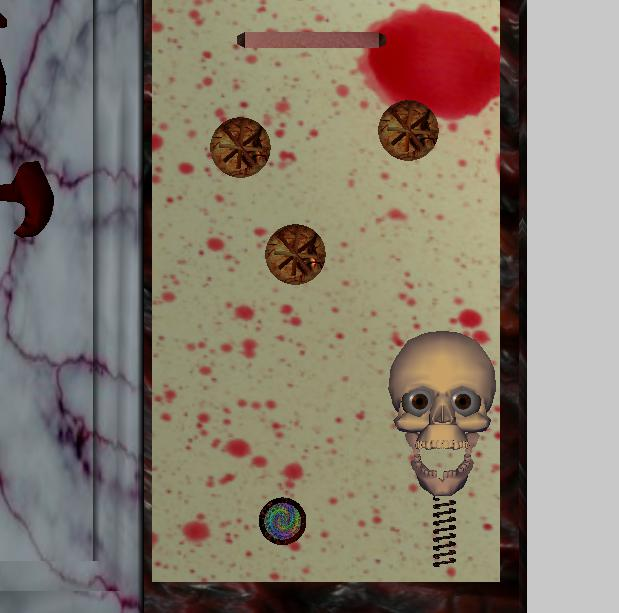
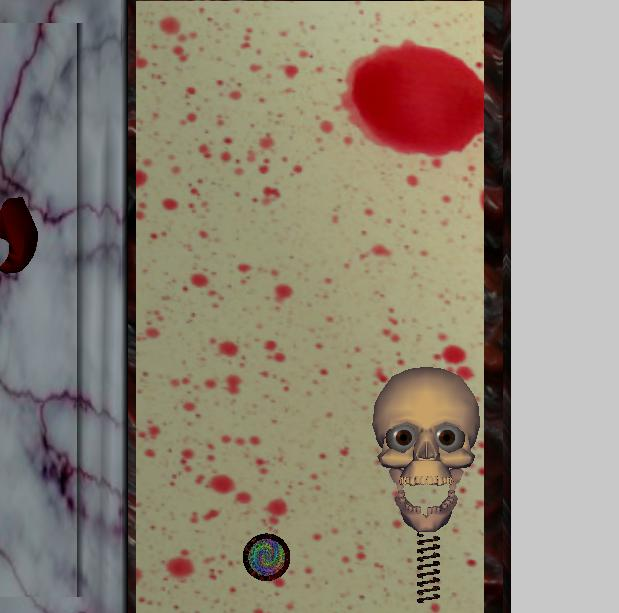
Ajouts graphiques dans le UI de Campagne.

diff --git a/Sources/InterfaceGraphique/Campagne.Designer.cs b/Sources/InterfaceGraphique/Campagne.Designer.cs
@@ -50,12 +50,12 @@
             // 
             // listBox
             // 
-            this.listBox.Font = new System.Drawing.Font("Old English Text MT", 15.75F, System.Drawing.FontStyle.Bold, System.Drawing.GraphicsUnit.Point, ((byte)(0)));
+            this.listBox.Font = new System.Drawing.Font("Microsoft Sans Serif", 11.25F, System.Drawing.FontStyle.Regular, System.Drawing.GraphicsUnit.Point, ((byte)(0)));
             this.listBox.FormattingEnabled = true;
-            this.listBox.ItemHeight = 26;
+            this.listBox.ItemHeight = 18;
             this.listBox.Location = new System.Drawing.Point(44, 150);
             this.listBox.Name = "listBox";
-            this.listBox.Size = new System.Drawing.Size(163, 264);
+            this.listBox.Size = new System.Drawing.Size(163, 274);
             this.listBox.TabIndex = 0;
             this.listBox.SelectedValueChanged += new System.EventHandler(this.listBox_SelectedValueChanged);
             // 
@@ -66,7 +66,7 @@
             this.colonneDiff});
             this.ZonesChoisis.Location = new System.Drawing.Point(445, 150);
             this.ZonesChoisis.Name = "ZonesChoisis";
-            this.ZonesChoisis.Size = new System.Drawing.Size(183, 264);
+            this.ZonesChoisis.Size = new System.Drawing.Size(183, 274);
             this.ZonesChoisis.TabIndex = 1;
             this.ZonesChoisis.UseCompatibleStateImageBehavior = false;
             this.ZonesChoisis.View = System.Windows.Forms.View.Details;
@@ -150,9 +150,11 @@
             // 
             // bouton_ADD
             // 
-            this.bouton_ADD.Location = new System.Drawing.Point(44, 428);
+            this.bouton_ADD.BackgroundImageLayout = System.Windows.Forms.ImageLayout.None;
+            this.bouton_ADD.ImageAlign = System.Drawing.ContentAlignment.MiddleLeft;
+            this.bouton_ADD.Location = new System.Drawing.Point(44, 430);
             this.bouton_ADD.Name = "bouton_ADD";
-            this.bouton_ADD.Size = new System.Drawing.Size(167, 39);
+            this.bouton_ADD.Size = new System.Drawing.Size(163, 39);
             this.bouton_ADD.TabIndex = 5;
             this.bouton_ADD.Text = "Ajouter a la liste";
             this.bouton_ADD.UseVisualStyleBackColor = true;
@@ -160,7 +162,7 @@
             // 
             // bouton_REMOVE
             // 
-            this.bouton_REMOVE.Location = new System.Drawing.Point(445, 428);
+            this.bouton_REMOVE.Location = new System.Drawing.Point(445, 430);
             this.bouton_REMOVE.Name = "bouton_REMOVE";
             this.bouton_REMOVE.Size = new System.Drawing.Size(91, 39);
             this.bouton_REMOVE.TabIndex = 6;
@@ -170,7 +172,7 @@
             // 
             // bouton_REMOVEALL
             // 
-            this.bouton_REMOVEALL.Location = new System.Drawing.Point(542, 428);
+            this.bouton_REMOVEALL.Location = new System.Drawing.Point(542, 430);
             this.bouton_REMOVEALL.Name = "bouton_REMOVEALL";
             this.bouton_REMOVEALL.Size = new System.Drawing.Size(86, 39);
             this.bouton_REMOVEALL.TabIndex = 7;
@@ -180,29 +182,32 @@
             // 
             // bouton_Annuler
             // 
-            this.bouton_Annuler.Location = new System.Drawing.Point(512, 473);
+            this.bouton_Annuler.BackColor = System.Drawing.SystemColors.Control;
+            this.bouton_Annuler.Location = new System.Drawing.Point(526, 513);
             this.bouton_Annuler.Name = "bouton_Annuler";
-            this.bouton_Annuler.Size = new System.Drawing.Size(116, 47);
+            this.bouton_Annuler.Size = new System.Drawing.Size(102, 47);
             this.bouton_Annuler.TabIndex = 8;
             this.bouton_Annuler.Text = "Annuler";
-            this.bouton_Annuler.UseVisualStyleBackColor = true;
+            this.bouton_Annuler.UseVisualStyleBackColor = false;
             this.bouton_Annuler.Click += new System.EventHandler(this.bouton_Annuler_Click);
             // 
             // bouton_OK
             // 
-            this.bouton_OK.Location = new System.Drawing.Point(375, 473);
+            this.bouton_OK.BackColor = System.Drawing.SystemColors.Control;
+            this.bouton_OK.Location = new System.Drawing.Point(418, 513);
             this.bouton_OK.Name = "bouton_OK";
-            this.bouton_OK.Size = new System.Drawing.Size(131, 47);
+            this.bouton_OK.Size = new System.Drawing.Size(102, 47);
             this.bouton_OK.TabIndex = 9;
             this.bouton_OK.Text = "Lancez la campagne";
-            this.bouton_OK.UseVisualStyleBackColor = true;
+            this.bouton_OK.UseVisualStyleBackColor = false;
             this.bouton_OK.Click += new System.EventHandler(this.bouton_OK_Click);
             // 
             // screenShot
             // 
-            this.screenShot.Location = new System.Drawing.Point(222, 150);
+            this.screenShot.BorderStyle = System.Windows.Forms.BorderStyle.FixedSingle;
+            this.screenShot.Location = new System.Drawing.Point(222, 187);
             this.screenShot.Name = "screenShot";
-            this.screenShot.Size = new System.Drawing.Size(204, 264);
+            this.screenShot.Size = new System.Drawing.Size(204, 209);
             this.screenShot.TabIndex = 10;
             this.screenShot.TabStop = false;
             // 
@@ -210,7 +215,7 @@
             // 
             this.AutoScaleDimensions = new System.Drawing.SizeF(6F, 13F);
             this.AutoScaleMode = System.Windows.Forms.AutoScaleMode.Font;
-            this.ClientSize = new System.Drawing.Size(650, 532);
+            this.ClientSize = new System.Drawing.Size(650, 572);
             this.Controls.Add(this.screenShot);
             this.Controls.Add(this.bouton_OK);
             this.Controls.Add(this.bouton_Annuler);

diff --git a/Sources/InterfaceGraphique/Exemple.cs b/Sources/InterfaceGraphique/Exemple.cs
@@ -177,13 +177,7 @@ namespace InterfaceGraphique
                             curZoomVal.Text = (Math.Round(currentZoom * 100) / 100).ToString();
                             Creation_Panel.Visible = true;
                             
-                            /*
-                            if (soundActif)
-                                playSound("");
-                           
-                       else
-                           playSound("", true);
-                       */
+                          
                         }
                         if (peutAnimer)
                             FonctionsNatives.animer(tempsInterAffichage);
